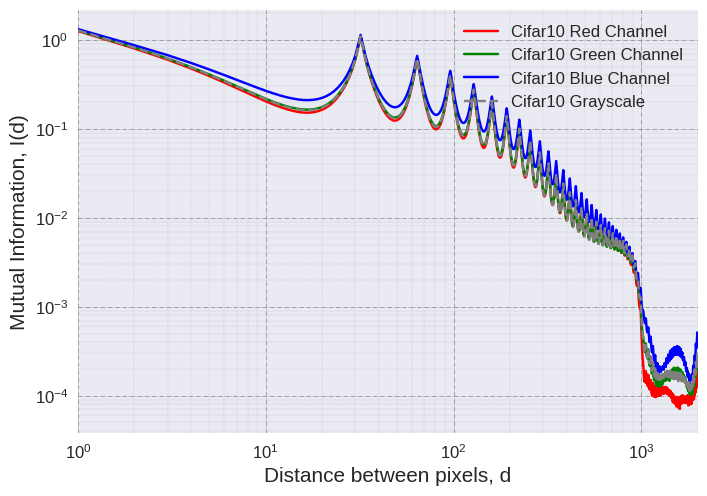
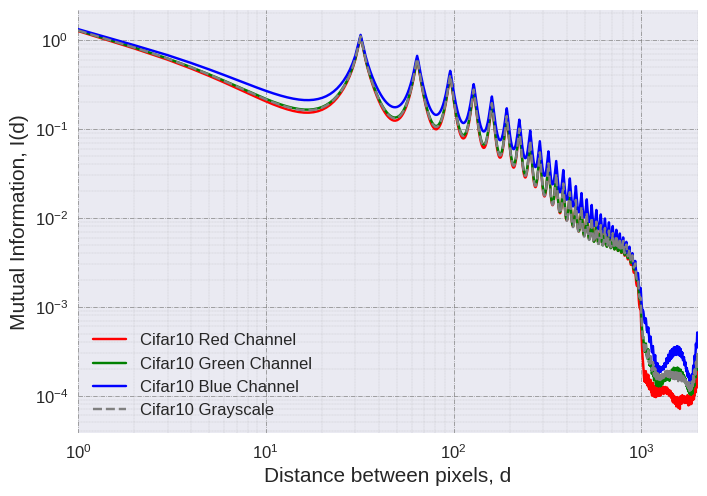
Up

diff --git a/paper_related/cifar10/plot_cifar10.py b/paper_related/cifar10/plot_cifar10.py
@@ -42,23 +42,23 @@ for filename in filenames:
     all_mi.append(mi.tolist())
 
 with plt.style.context(('seaborn')):
-    plt.loglog(np.arange(1,len(all_mi[0])+1), all_mi[0], 'r-', label='Cifar10 Red Channel')
-    plt.loglog(np.arange(1,len(all_mi[1])+1), all_mi[1], 'g-', label='Cifar10 Green Channel')
-    plt.loglog(np.arange(1,len(all_mi[2])+1), all_mi[2], 'b-', label='Cifar10 Blue Channel')
-    plt.loglog(np.arange(1,len(all_mi[3])+1), all_mi[3], color='gray', linestyle='dashed', label='Cifar10 Grayscale')
-    #plt.loglog(np.arange(1,len(all_mi[4])+1), all_mi[4], 'k-', label='Cifar10 Full Image')
+    #plt.loglog(np.arange(1,len(all_mi[0])+1), all_mi[0], 'r-', label='Cifar10 Red Channel')
+    #plt.loglog(np.arange(1,len(all_mi[1])+1), all_mi[1], 'g-', label='Cifar10 Green Channel')
+    #plt.loglog(np.arange(1,len(all_mi[2])+1), all_mi[2], 'b-', label='Cifar10 Blue Channel')
+    #plt.loglog(np.arange(1,len(all_mi[3])+1), all_mi[3], color='gray', linestyle='dashed', label='Cifar10 Grayscale')
+    plt.loglog(np.arange(1,len(all_mi[4])+1), all_mi[4], 'k-', label='Cifar10 Full Image')
 
     plt.tick_params(labelsize='large', width=5)
     plt.grid(True)
     plt.grid(which='major', linestyle='-.', linewidth='0.5', color='grey')
     plt.grid(which='minor', linestyle=':', linewidth='0.2', color='grey')
     ax = plt.axes()
-    ax.set_xlim(1, 2000)
+    ax.set_xlim(1, 5000)
     ax.set_ylim(0.000038, 2.2)
     print(ax.get_xlim())
     print(ax.get_ylim())
     ax.set_xlabel('Distance between pixels, d', fontsize=15)
     ax.set_ylabel('Mutual Information, I(d)', fontsize=15)
-    lgd = ax.legend(loc='upper right', shadow=True, fancybox=True, ncol=1, numpoints=1, prop={'size':12})
-    plt.savefig('cifar10_channels', bbox_extra_artists=(lgd,), bbox_inches='tight')
+    lgd = ax.legend(loc='lower left', shadow=True, fancybox=True, ncol=1, numpoints=1, prop={'size':12})
+    plt.savefig('cifar10_full', bbox_extra_artists=(lgd,), bbox_inches='tight')
     plt.show()
